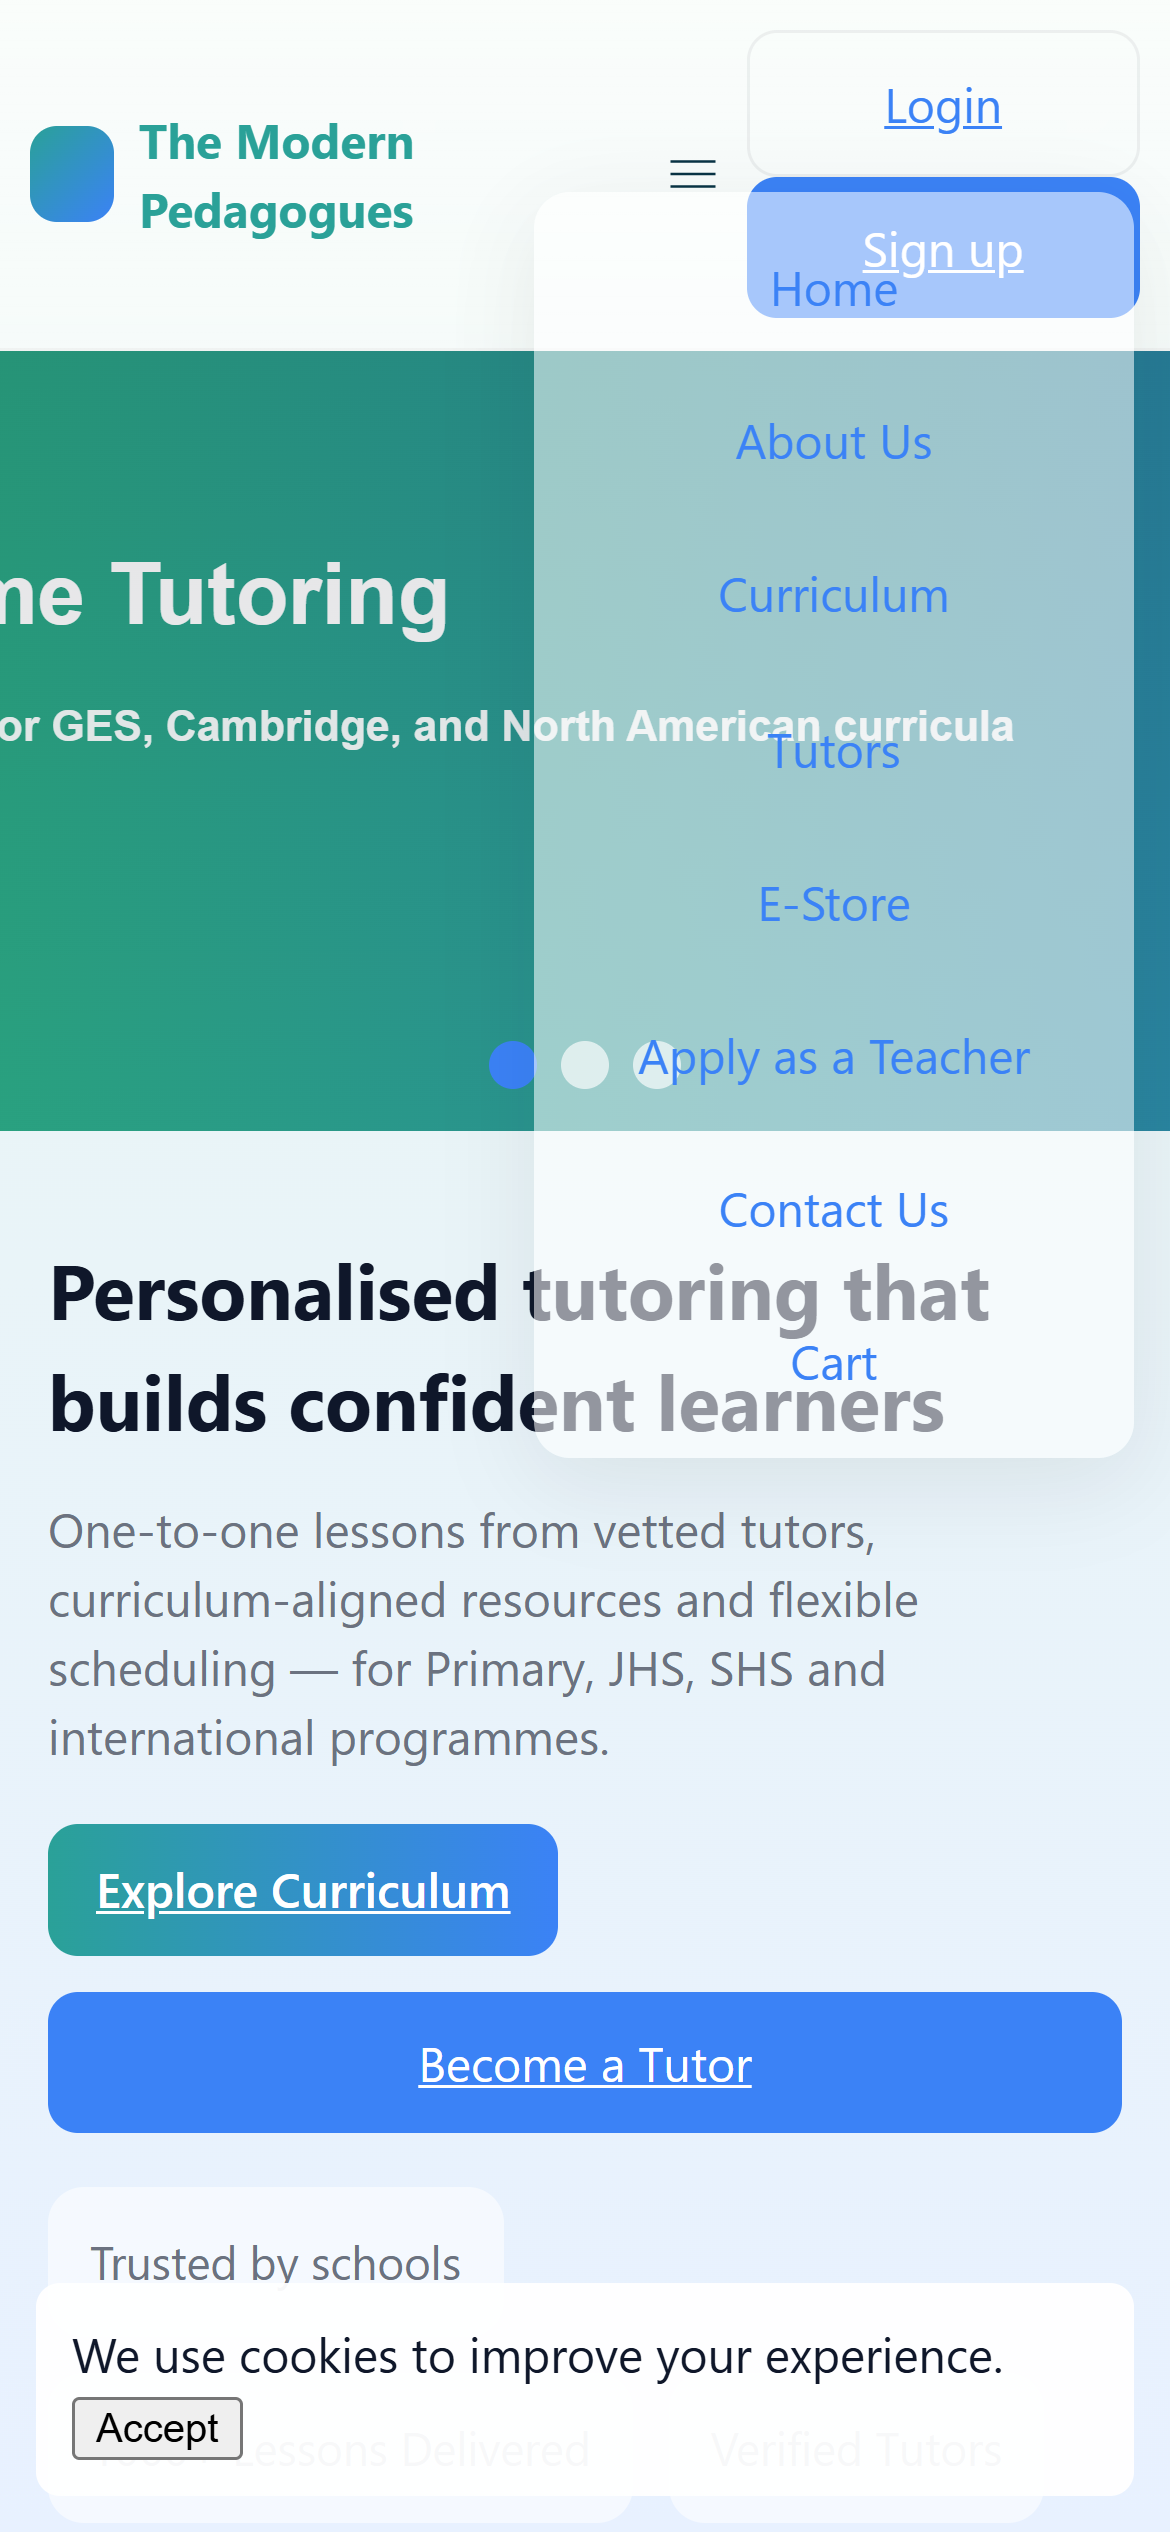
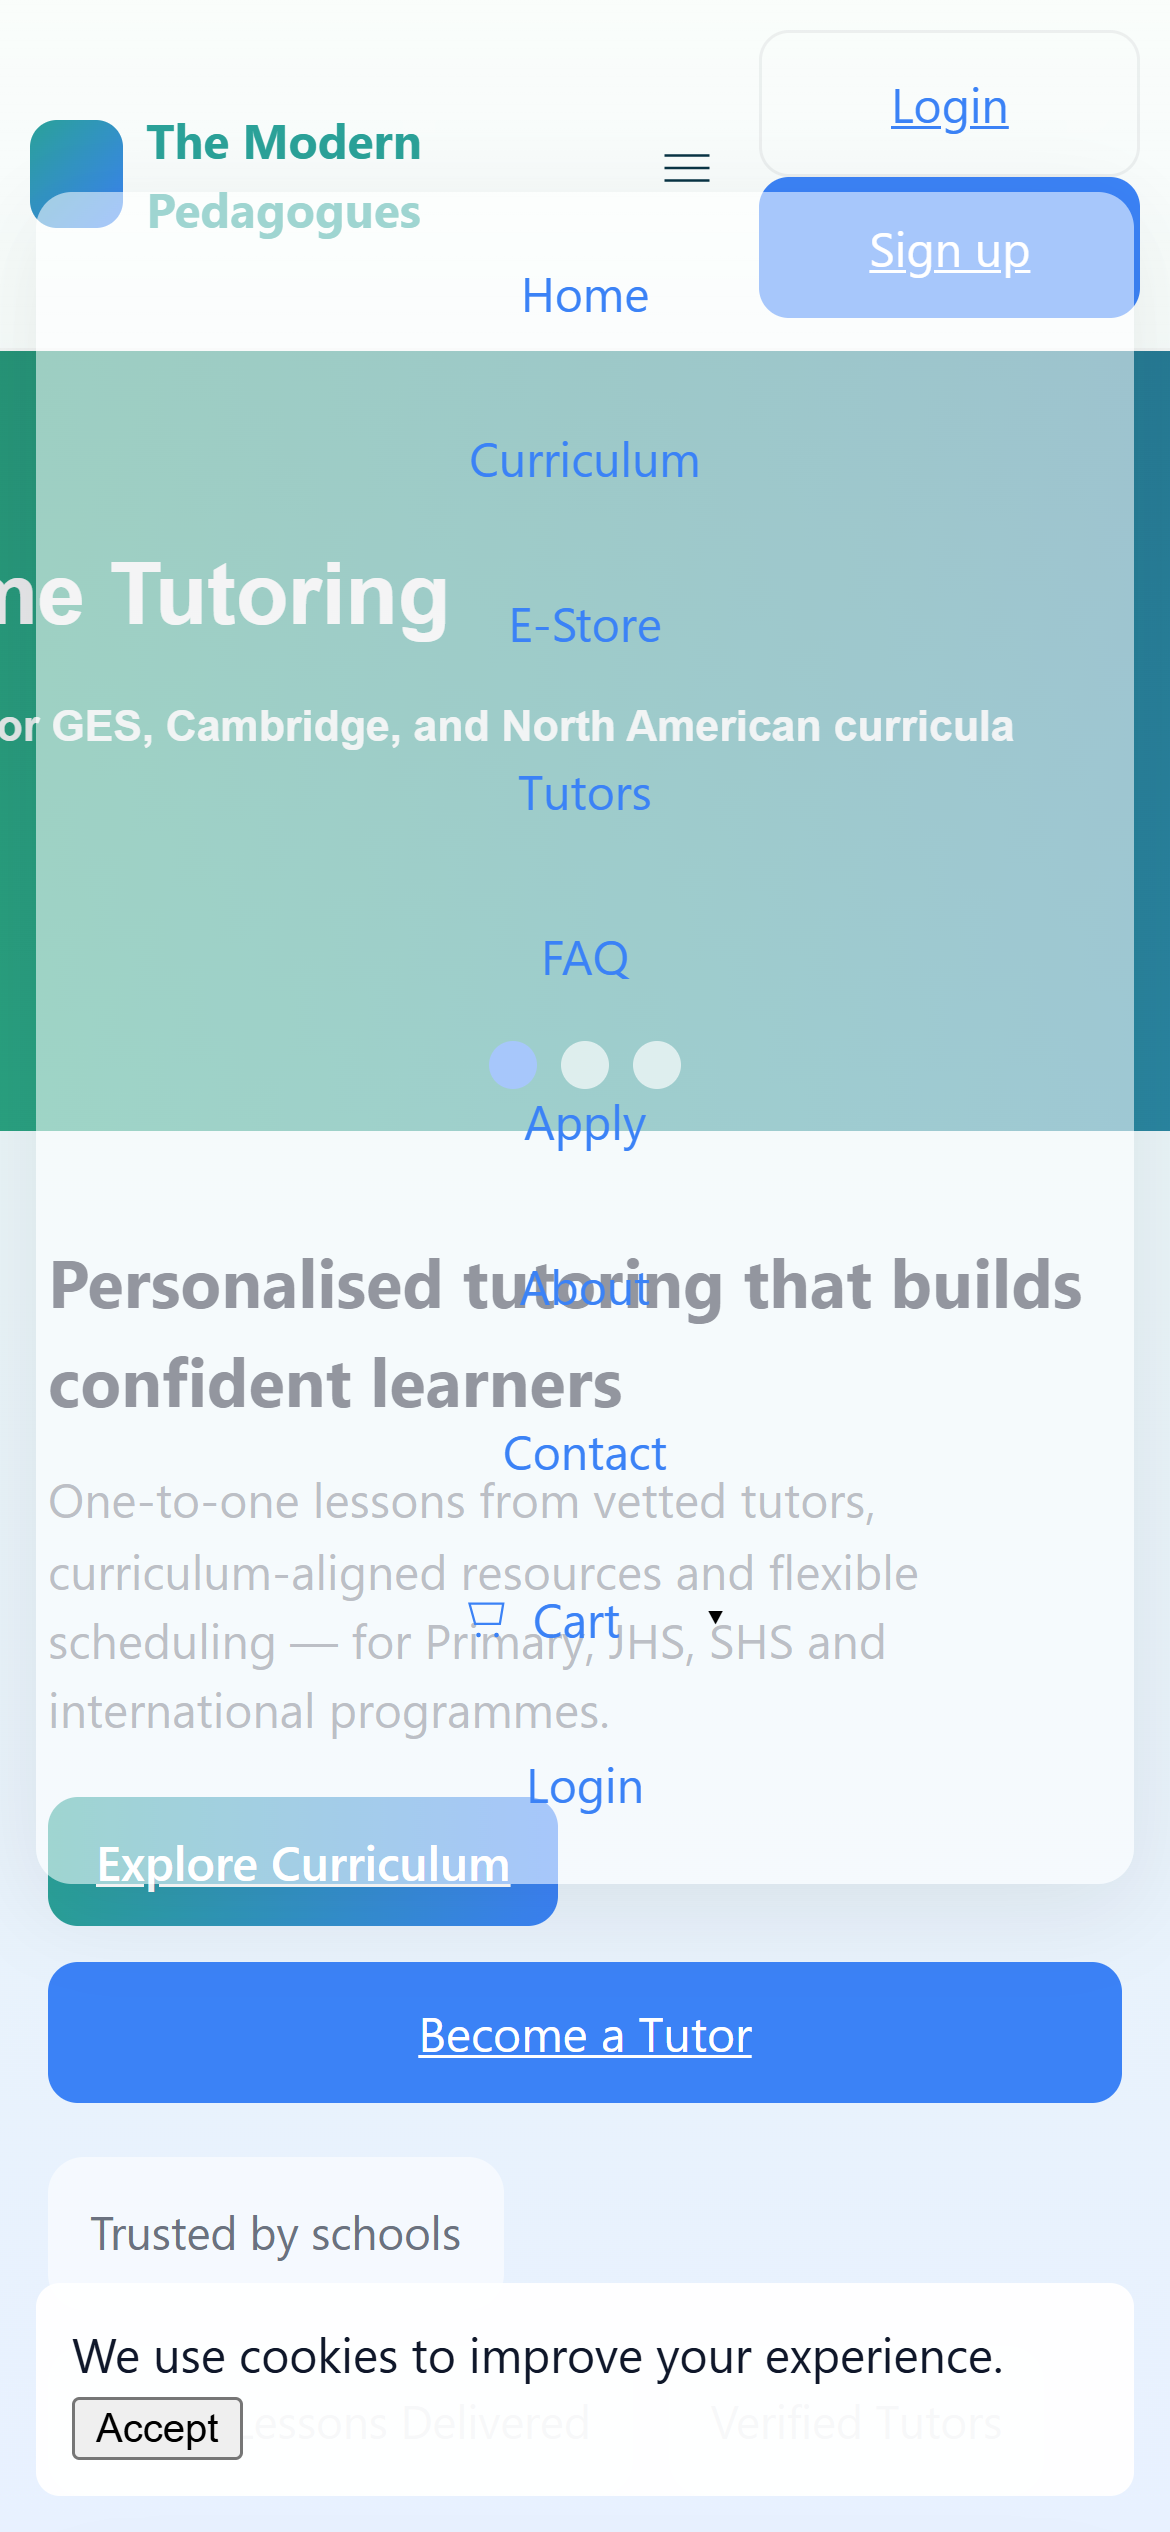
Admin-controlled user creation: remove self-signup roles, add user management panel, role-based login redirects

diff --git a/server.js b/server.js
@@ -712,17 +712,13 @@ app.post('/admin/orders/:id/status', requireAdmin, (req, res) => {
 // Auth: signup & login
 app.get('/signup', (req, res) => res.render('signup'));
 app.post('/signup', (req, res) => {
-  const { name, email, password, role } = req.body;
+  const { name, email, password } = req.body;
   const id = uuidv4();
   const hashed = bcrypt.hashSync(password, 10);
-  const userRole = (role === 'tutor') ? 'tutor' : 'user';
-  db.run('INSERT INTO users (id, name, email, password, role) VALUES (?, ?, ?, ?, ?)', [id, name, email, hashed, userRole], (err) => {
+  db.run('INSERT INTO users (id, name, email, password) VALUES (?, ?, ?, ?)', [id, name, email, hashed], (err) => {
     if (err) return res.render('signup', { error: 'Email already in use' });
-    req.session.user = { id, name, email, role: userRole };
-    if (userRole === 'tutor') {
-      return res.redirect('/tutor/lessons');
-    }
-    res.redirect('/account');
+    req.session.user = { id, name, email, role: 'user' };
+    res.redirect('/dashboard');
   });
 });
 
@@ -732,6 +728,13 @@ app.post('/login', (req, res) => {
   db.get('SELECT * FROM users WHERE email = ? OR name = ?', [email, email], (err, user) => {
     if (err || !user) return res.render('login', { error: 'Invalid credentials' });
     if (!bcrypt.compareSync(password, user.password)) return res.render('login', { error: 'Invalid credentials' });
+    req.session.user = { id: user.id, name: user.name, email: user.email, role: user.role || 'user' };
+    // Redirect based on role
+    if (user.role === 'admin') return res.redirect('/admin');
+    if (user.role === 'tutor') return res.redirect('/tutor/lessons');
+    res.redirect('/dashboard');
+  });
+});
     req.session.user = { id: user.id, name: user.name, email: user.email, role: user.role };
     if (user.role === 'admin') return res.redirect('/admin');
     res.redirect('/account');
@@ -797,6 +800,32 @@ app.post('/admin/content', requireAdmin, (req, res) => {
   const { key, value } = req.body;
   db.run('INSERT OR REPLACE INTO site_content (key, value) VALUES (?, ?)', [key, value]);
   res.redirect('/admin');
+});
+
+// Admin user management
+app.get('/admin/users', requireAdmin, async (req, res) => {
+  const users = await runQuery('SELECT id, name, email, role FROM users ORDER BY name');
+  const { message, error } = req.query;
+  res.render('admin/users', { users, message, error });
+});
+
+app.post('/admin/users/create', requireAdmin, (req, res) => {
+  const { name, email, password, role } = req.body;
+  const id = uuidv4();
+  const hashed = bcrypt.hashSync(password, 10);
+  const userRole = (role === 'tutor') ? 'tutor' : 'user';
+  db.run('INSERT INTO users (id, name, email, password, role) VALUES (?, ?, ?, ?, ?)', [id, name, email, hashed, userRole], (err) => {
+    if (err) return res.render('admin/users', { error: 'Email already in use', users: [] });
+    res.redirect('/admin/users?message=User created successfully. Credentials: ' + email + ' / (password provided)');
+  });
+});
+
+app.post('/admin/users/delete', requireAdmin, (req, res) => {
+  const { userId } = req.body;
+  db.run('DELETE FROM users WHERE id = ?', [userId], (err) => {
+    if (err) return res.redirect('/admin/users?error=Failed to delete user');
+    res.redirect('/admin/users?message=User deleted successfully');
+  });
 });
 
 // Admin media manager
